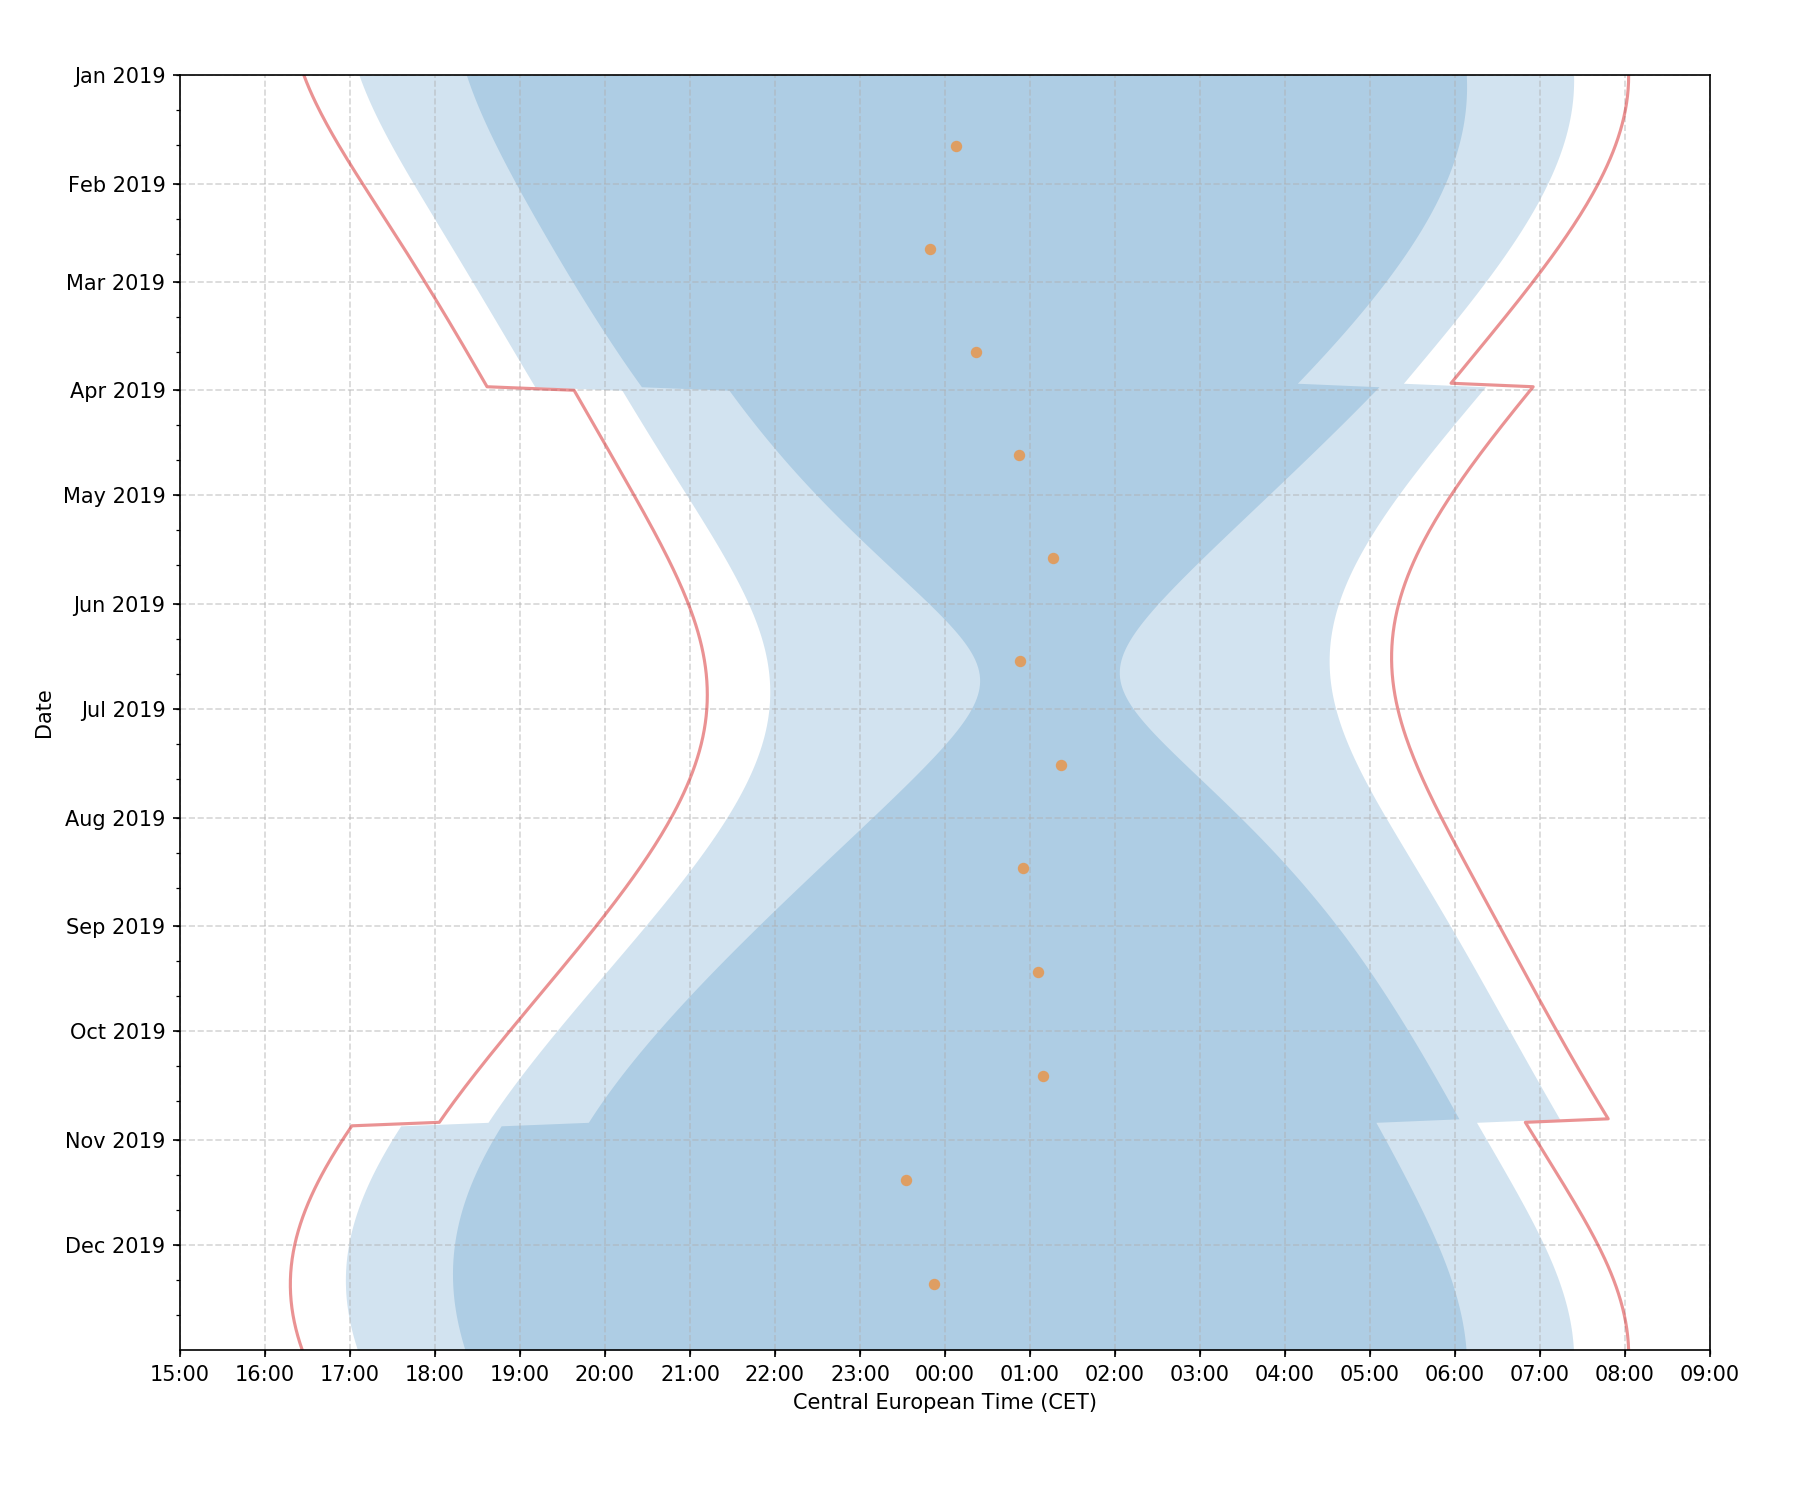
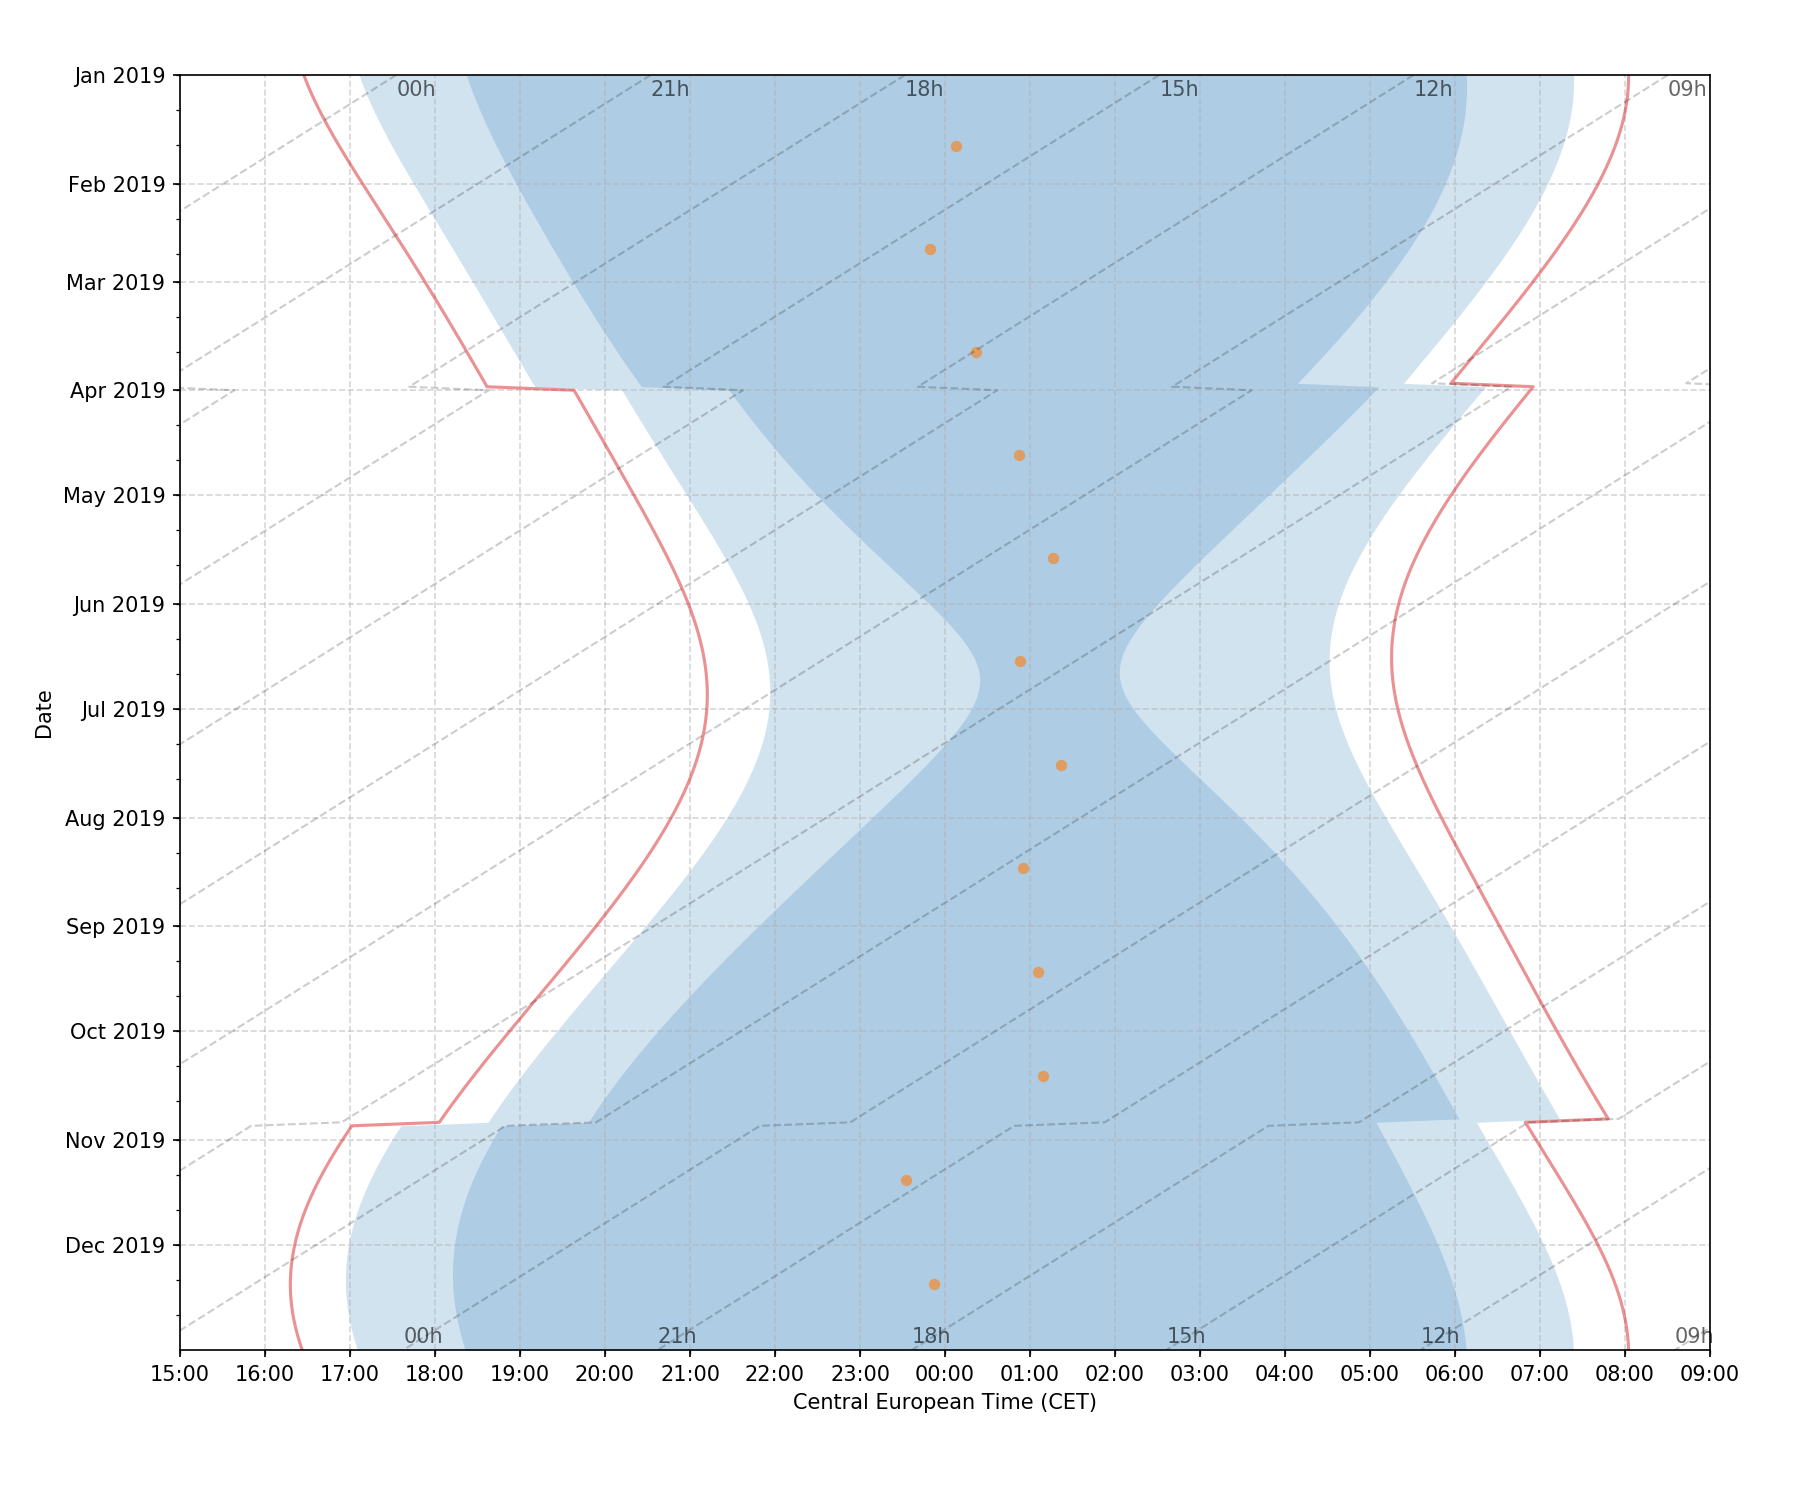
add RA lines (also local sidereal time) in night chart

diff --git a/night_chart/plot_night_chart.py b/night_chart/plot_night_chart.py
@@ -9,11 +9,13 @@ import matplotlib.colors as mcolors
 
 def correct_ut(dt):
     # correct UT to Central European Time in 2019
+    # returns +2 or +1 (CET - UT)
+    # so CET = CET + correct_ut(dt)
     if dt > datetime.datetime(2019, 3, 31, 2, 0, 0) and \
        dt < datetime.datetime(2019, 10,27, 3, 0, 0):
-        return dt + datetime.timedelta(hours=2)
+        return datetime.timedelta(hours=2)
     else:
-        return dt + datetime.timedelta(hours=1)
+        return datetime.timedelta(hours=1)
 
 def main():
 
@@ -47,8 +49,10 @@ def main():
         myplace.date = dt
         t1 = myplace.previous_setting(sun, use_center=True)
         t2 = myplace.next_rising(sun, use_center=True)
-        dt1 = correct_ut(t1.datetime()) - dt
-        dt2 = correct_ut(t2.datetime()) - dt
+        ut_offset1 = correct_ut(t1.datetime())
+        ut_offset2 = correct_ut(t2.datetime())
+        dt1 = t1.datetime() + ut_offset1 - dt
+        dt2 = t2.datetime() + ut_offset2 - dt
         dt1_lst.append(date0 + dt1)
         dt2_lst.append(date0 + dt2)
     ax.plot(dt1_lst, datenums, '-', color='C3', alpha=0.5)
@@ -61,8 +65,10 @@ def main():
         myplace.date = dt
         t1 = myplace.previous_setting(ep.Sun(), use_center=True)
         t2 = myplace.next_rising(ep.Sun(), use_center=True)
-        dt1 = correct_ut(t1.datetime()) - dt
-        dt2 = correct_ut(t2.datetime()) - dt
+        ut_offset1 = correct_ut(t1.datetime())
+        ut_offset2 = correct_ut(t2.datetime())
+        dt1 = t1.datetime() + ut_offset1 - dt
+        dt2 = t2.datetime() + ut_offset2 - dt
         dt1_lst.append(date0 + dt1)
         dt2_lst.append(date0 + dt2)
     ax.fill_betweenx(datenums, dt1_lst, dt2_lst, color='C0', alpha=0.2, lw=0)
@@ -74,8 +80,10 @@ def main():
         myplace.date = dt
         t1 = myplace.previous_setting(ep.Sun(), use_center=True)
         t2 = myplace.next_rising(ep.Sun(), use_center=True)
-        dt1 = correct_ut(t1.datetime()) - dt
-        dt2 = correct_ut(t2.datetime()) - dt
+        ut_offset1 = correct_ut(t1.datetime())
+        ut_offset2 = correct_ut(t2.datetime())
+        dt1 = t1.datetime() + ut_offset1 - dt
+        dt2 = t2.datetime() + ut_offset2 - dt
         dt1_lst.append(date0 + dt1)
         dt2_lst.append(date0 + dt2)
     ax.fill_betweenx(datenums, dt1_lst, dt2_lst, color='C0', alpha=0.2, lw=0)
@@ -104,7 +112,8 @@ def main():
     for t in fullmoon_lst:
         myplace.date = t + datetime.timedelta(hours=5)
         transit_dt = myplace.previous_transit(moon).datetime()
-        delta_dt = correct_ut(transit_dt) - datetime.datetime(transit_dt.year,
+        ut_offset = correct_ut(transit_dt)
+        delta_dt = transit_dt + ut_offset - datetime.datetime(transit_dt.year,
                                                   transit_dt.month,
                                                   transit_dt.day, 0,0,0)
         if delta_dt.total_seconds()>12*3600:
@@ -114,6 +123,62 @@ def main():
 
     # plot the full moons
     ax.scatter(transit_lst, fullmoon_lst, color='C1', alpha=0.6, s=30, lw=0)
+
+    # plot RA lines
+    for ra in np.arange(0, 24, 3):
+        # generate a fake star with (RA, Dec) = (ra, 0.0)
+        eq = SkyCoord(ra=ra*15, dec=0., frame='icrs', unit='deg')
+        string = 'NONAME,f|M|g2,%s,%s,5.0,2000'%(
+                eq.ra.to_string(sep=':'), eq.dec.to_string(sep=':'))
+        star = ep.readdb(string)
+        transit_lst = []
+        real_transit_lst = []
+        dt_lst = []
+
+        transit_data = []
+        prev_transit = None
+        for dt in datetime_lst:
+            myplace.date = dt + datetime.timedelta(hours=12)
+            star.compute(myplace)
+
+            real_transit_dt = myplace.previous_transit(star).datetime()
+            delta_dt = real_transit_dt - dt
+            transit = date0 + delta_dt
+
+            if prev_transit is None or \
+                (transit - prev_transit).total_seconds() < 12*3600:
+                transit_lst.append(transit)
+                real_transit_lst.append(real_transit_dt)
+                dt_lst.append(dt)
+            else:
+                item = (transit_lst, dt_lst, real_transit_lst)
+                transit_data.append(item)
+                transit_lst = []
+                real_transit_lst = []
+                dt_lst = []
+                prev_transit = None
+            prev_transit = transit
+        if len(dt_lst)>0:
+            item = (transit_lst, dt_lst, real_transit_lst)
+            transit_data.append(item)
+
+        # plot
+        for transit_lst, dt_lst, real_transit_lst in transit_data:
+            ut_offset_lst = [correct_ut(dt) for dt in real_transit_lst]
+            newtransit_lst = [t1+to for t1, to in zip(transit_lst, ut_offset_lst)]
+            ax.plot(newtransit_lst, dt_lst, '--', color='k', alpha=0.2, lw=1)
+
+            # add texts of RA in hour on the top
+            if dt_lst[0] == datetime_lst[0] and x1 < newtransit_lst[0] < x2:
+                ax.text(newtransit_lst[0],
+                        dt_lst[0] + datetime.timedelta(days=6),
+                        '%02dh'%ra, color='k', alpha=0.6)
+
+            # add texts of RA in hour on the bottom
+            if dt_lst[-1] == datetime_lst[-1] and x1 < newtransit_lst[-1] < x2:
+                ax.text(newtransit_lst[-1],
+                        dt_lst[-1] - datetime.timedelta(days=2),
+                        '%02dh'%ra, color='k', alpha=0.6)
 
     # set x and y axis to date
     ax.xaxis_date()
